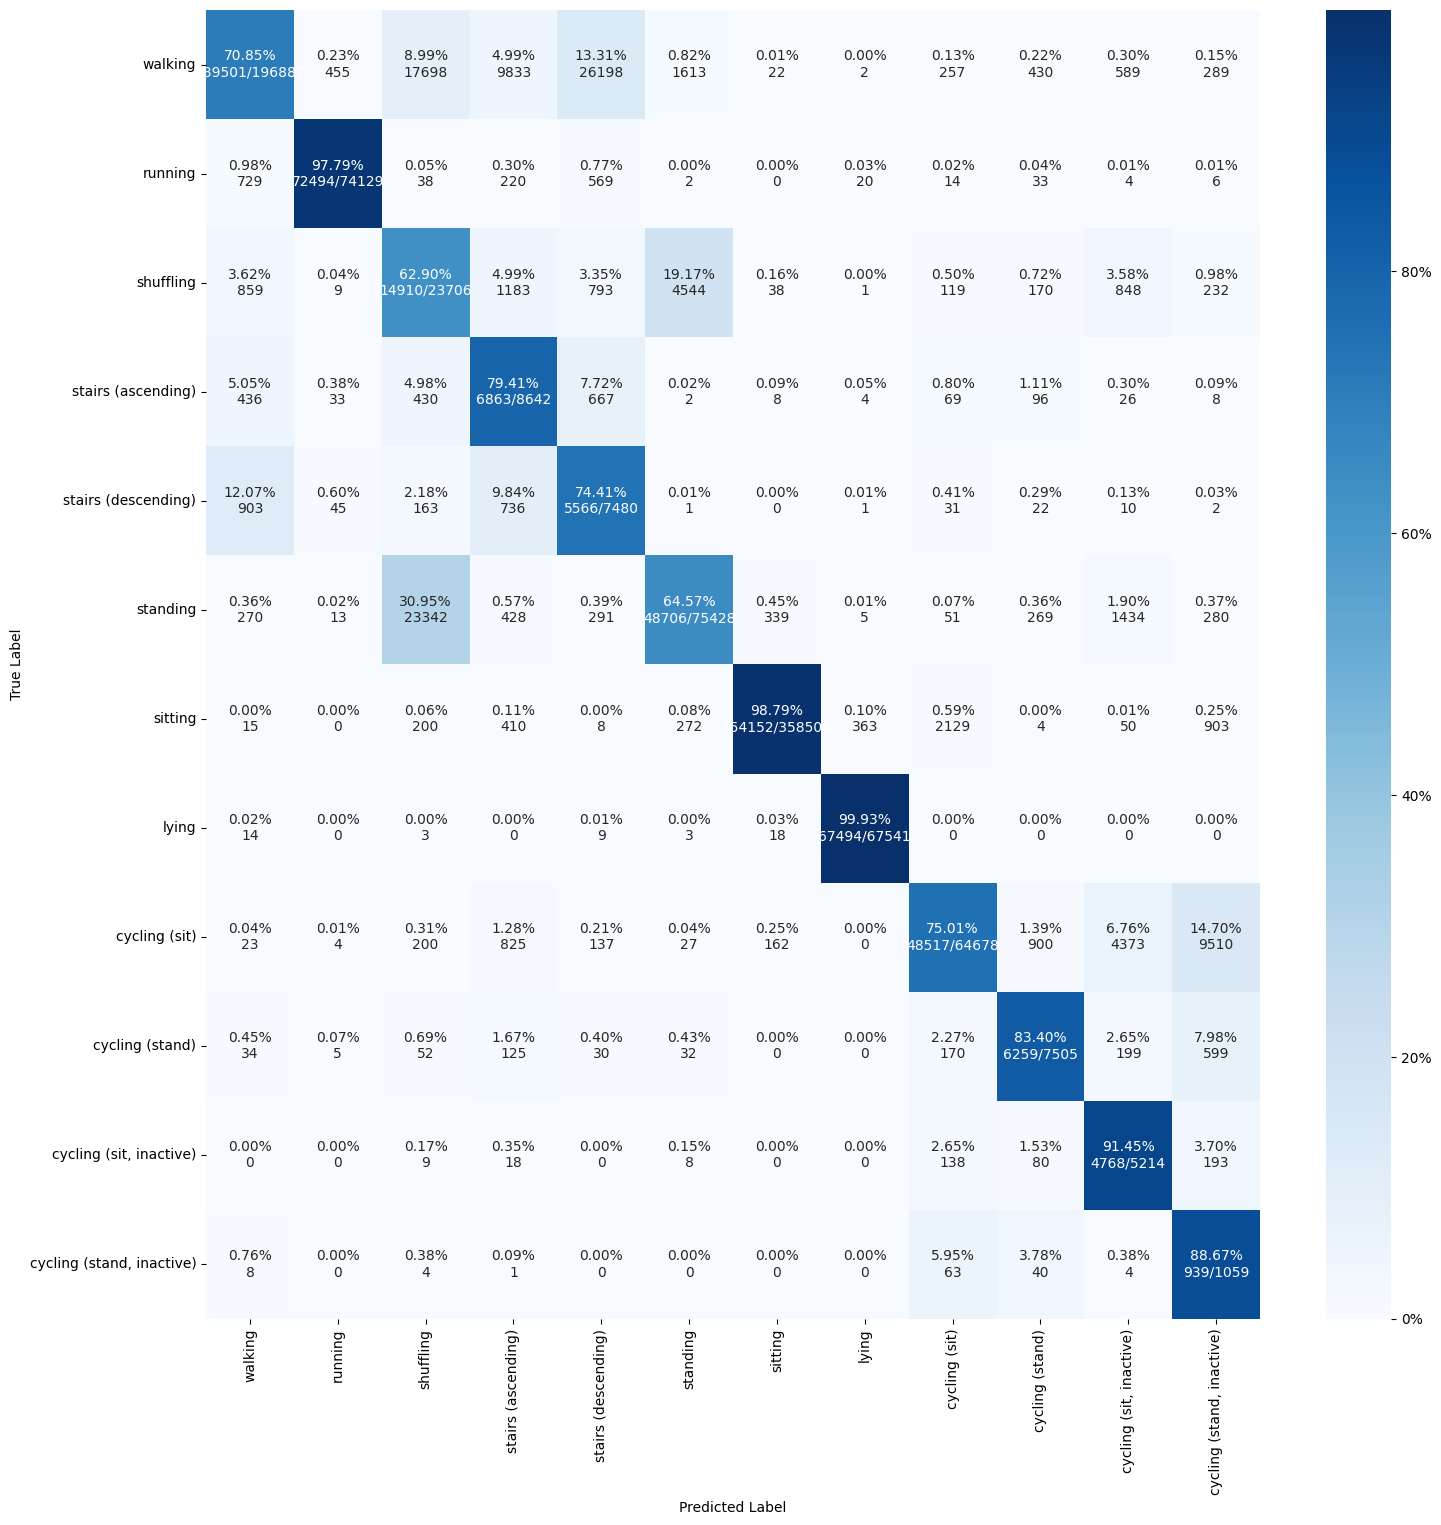
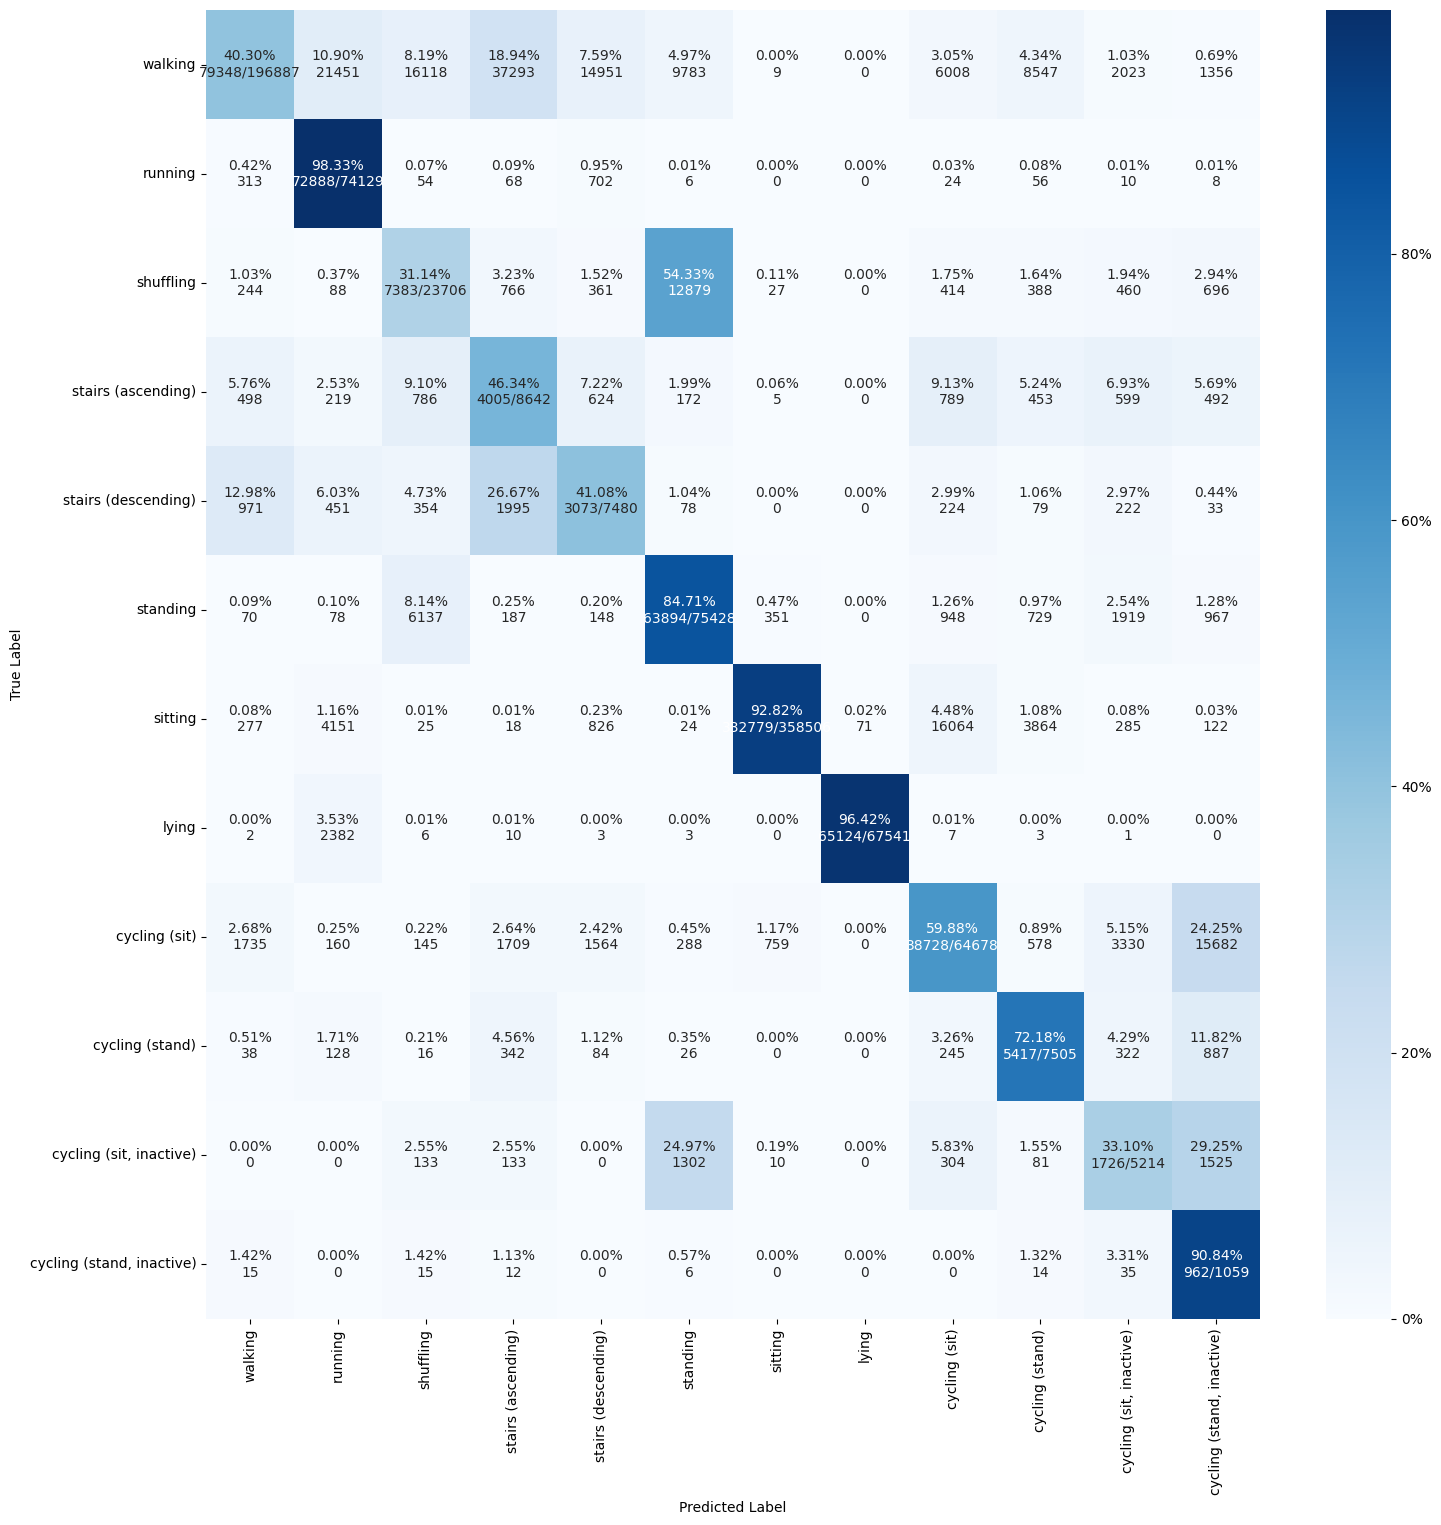
Added elbow curves + Screenshots

diff --git a/data_visualization.py b/data_visualization.py
@@ -5,8 +5,9 @@ import matplotlib.patches as mpatches
 from matplotlib.ticker import PercentFormatter
 import numpy as np
 import seaborn as sns
-from sklearn.metrics import confusion_matrix
+from sklearn.metrics import confusion_matrix, pairwise_distances
 from sklearn.decomposition import PCA
+from sklearn.cluster import AgglomerativeClustering, KMeans
 from scipy.interpolate import make_interp_spline
 from scipy.cluster.hierarchy import dendrogram, linkage
 from functions import get_label_distribution
@@ -550,6 +551,50 @@ def plot_label_distr_per_cluster(y, clusters):
         label_distributions,
         set_names=[f"Cluster {i}" for i in range(len(label_distributions))],
     )
+
+
+def plot_elbow_curve(wcss, algorithm=""):
+    """Displays the elbow method plot for clustering."""
+
+    plt.figure(figsize=(10, 6))
+    plt.plot(range(1, len(wcss) + 1), wcss, marker="o", linestyle="--")
+    plt.title(f"Elbow Method Using {algorithm} For Optimal clusters")
+    plt.xlabel("Number of clusters")
+    plt.ylabel("WCSS")
+    plt.xticks(range(1, len(wcss) + 1))
+    plt.grid(True)
+    plt.show()
+
+
+def plot_elbow_curves(feature_matrix):
+    """Plots elbow methods for both clustering methods"""
+
+    kmeans_wcss = []
+    hierarchical_wcss = []
+
+    for c in range(1, 10):
+        # Perform K-means clustering with c clusters and save Within-Cluster Sum of Squares (WCSS)
+        kmeans = KMeans(n_clusters=c, random_state=10)
+        km = kmeans.fit(feature_matrix)
+        kmeans_wcss.append(km.inertia_)
+
+        # Perform Hierarchical clustering with c clusters
+        agglom = AgglomerativeClustering(n_clusters=c)
+        agglom.fit(feature_matrix)
+        labels = agglom.labels_
+
+        # Calculate and save WCSS
+        distance_matrix = pairwise_distances(feature_matrix)
+        wcss_value = sum(
+            np.sum(distance_matrix[labels == label][:, labels == label])
+            / len(distance_matrix[labels == label])
+            for label in set(labels)
+        )
+        hierarchical_wcss.append(wcss_value)
+
+    # Plot both elbow curves
+    plot_elbow_curve(kmeans_wcss, "K-Means")
+    plot_elbow_curve(hierarchical_wcss, "Agglomerative Clustering")
 
 
 # if __name__ == "__main__":

diff --git a/classifiers.py b/classifiers.py
@@ -64,8 +64,7 @@ def print_important_classification_metrics(
     class_rep = classification_report(
         y_true,
         y_pred,
-        # labels=LABEL_LIST,
-        target_names=LABEL_LIST,  # [LABEL_LIST[idx] for idx in list(np.unique(y_pred))],
+        target_names=LABEL_LIST,
         zero_division=0,
     )
     print(f"Accuracy: {accuracy:.2f}")
@@ -73,7 +72,7 @@ def print_important_classification_metrics(
     display_confusion_matrix(y_true, y_pred, None, LABEL_LIST, filename)
 
 
-def get_sequential_model(input_shape, output_shape, alpha=0.25) -> Sequential:
+def get_sequential_model(input_shape, output_shape, alpha) -> Sequential:
     """Returns a compiled sequential model for classification."""
 
     model = Sequential()
@@ -83,7 +82,7 @@ def get_sequential_model(input_shape, output_shape, alpha=0.25) -> Sequential:
     model.add(Dense(output_shape, activation="softmax"))
     model.summary()
     model.compile(
-        optimizer=Adam(learning_rate=0.005),
+        optimizer=Adam(learning_rate=0.001),
         loss=CategoricalFocalCrossentropy(alpha=alpha, gamma=4),
         metrics=["accuracy", Precision(), Recall(), AUC(), F1Score()],
     )
@@ -270,12 +269,13 @@ def train_and_evaluate_models_no_cv(
     n_trees=100,
     undersample=True,
     us_factor=4,
+    individuals=22,
 ):
     """Train and evaluate classifiers without using Leave-One-Out Cross-Validation"""
 
     # Concatenate the data lists into 2 numpy arrays
-    X = np.concatenate([X_ind for X_ind in X], axis=0)
-    y = np.concatenate([y_ind for y_ind in y], axis=0)
+    X = np.concatenate([X_ind for X_ind in X[:individuals]], axis=0)
+    y = np.concatenate([y_ind for y_ind in y[:individuals]], axis=0)
 
     # Split the dataset to train and test data
     X_train, X_test, y_train, y_test = train_test_split(

diff --git a/main.py b/main.py
@@ -17,14 +17,12 @@ N_TREES = 100
 
 ## Neural network parameters
 EPOCHS = 20
-BATCH_SIZE = 10
+BATCH_SIZE = 1_000
 
 
 def main():
     # X, y = fn.read_and_preprocess_data(subjects=SUBJECTS)
     X, y = fn.load_preprocessed_data()
-
-    ####### Add data visualization here (?)
 
     ####### Train classifiers and evaluate them using Leave-One-Out Cross-Validation (Very computationally expensive!)
 
@@ -37,16 +35,21 @@ def main():
     # # Evaluate Bayesian Networks classifier
     # cl.custom_loo_cv("BayesianNetworks", X, y)
 
-    ####### Train classifiers and evaluate them WITHOUT using Leave-One-Out Cross-Validation
-    cl.train_and_evaluate_models_no_cv(X, y, EPOCHS, BATCH_SIZE, N_TREES)
+    ####### Train classifiers and evaluate them using the whole dataset
+    # cl.train_and_evaluate_models_no_cv(
+    #     X, y, EPOCHS, BATCH_SIZE, N_TREES, individuals=22
+    # )
 
     ####### Clustering
     # Create feature matrix
     feature_matrix = fn.create_feature_matrix(y)
 
-    # Perform K-means clustering
-    kmeans = KMeans(n_clusters=3, random_state=17)
-    km_labels = kmeans.fit_predict(feature_matrix)
+    # Plot elbow curves for both clustering algorithms
+    # dv.plot_elbow_curves(feature_matrix)
+
+    # Perform K-Means clustering
+    km = KMeans(n_clusters=3, random_state=17)
+    km_labels = km.fit_predict(feature_matrix)
     dv.plot_clusters(feature_matrix, km_labels)
     dv.plot_label_distr_per_cluster(y, km_labels)
 

diff --git a/functions.py b/functions.py
@@ -63,7 +63,6 @@ def read_and_preprocess_data(
         df["timestamp"] = pd.to_datetime(df["timestamp"])
         df["label"] = df["label"].map(LABEL_MAPPING)
 
-
         # Apply preprocessing on data and prepare input and labels
         X_temp, y_temp = segment_time_series(df, window_length_ms, overlap)
 
@@ -150,9 +149,10 @@ def load_preprocessed_data() -> list[np.array]:
 
     return X, y
 
+
 def create_feature_matrix(y: np.array):
     """Creates feature matrix to use for clustering."""
-    
+
     num_subjects = len(y)
     # Initialize the feature matrix
     feature_matrix = np.zeros((num_subjects, 12))
@@ -161,7 +161,6 @@ def create_feature_matrix(y: np.array):
         labels, counts = np.unique(subject_data, return_counts=True)
         feature_matrix[i, labels] = counts
 
-    
     # Normalize the feature vectors
     scaler = StandardScaler()
     feature_matrix = scaler.fit_transform(feature_matrix)
